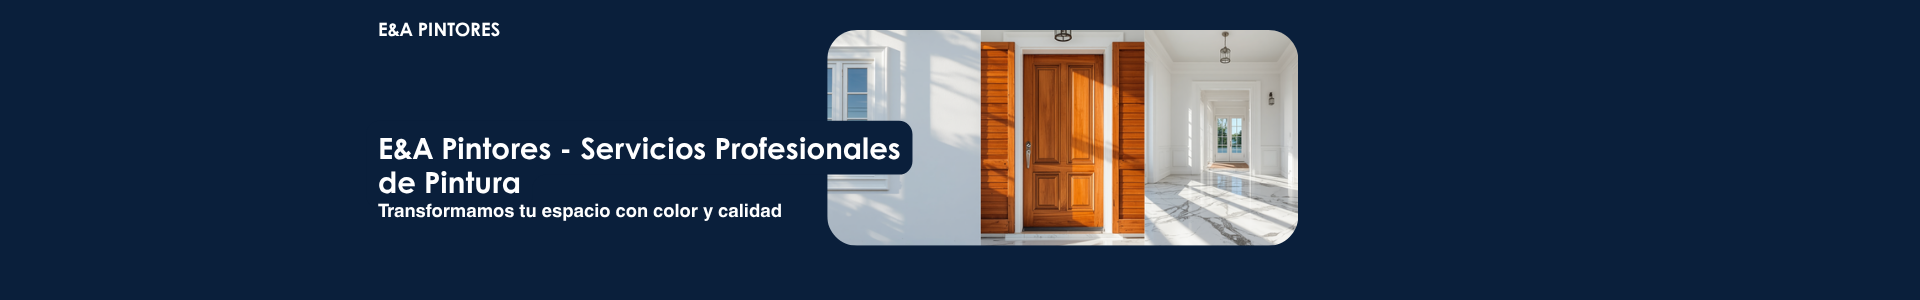
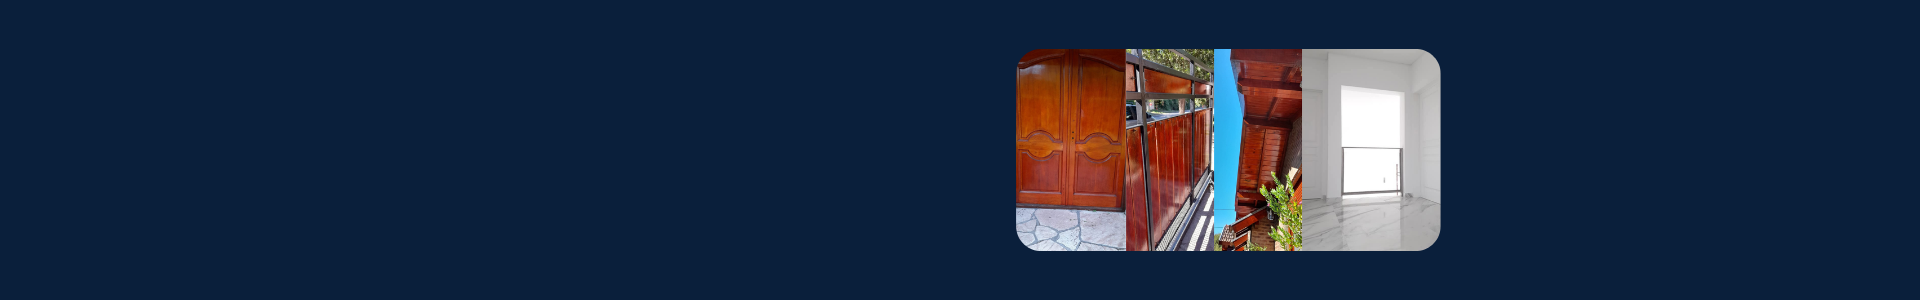
correccion para celulares

Changed region(s): [[0.1875, 0.09, 0.75, 0.84], [0.1875, 0.57, 0.2812, 0.66], [0.1875, 0.06, 0.2812, 0.12]]

diff --git a/style.css b/style.css
@@ -48,12 +48,8 @@ body {
     background-attachment: fixed;
 }
 
-@media (max-wigth: 1000){
-  body{
-    background-attachment: scroll;
-    background-size: 100% 100vh;
-  }
-}
+
+
 /*resaltar parrafos*/
 p {
     font-size: 25px;
@@ -85,13 +81,13 @@ header {
 }
 
 .encabezado-banner {
-    background-image: url('img/banner2.png');
+    background-image: url('img/banner3.png');
     background-size: cover;
     background-position: center;
     display: flex;
     justify-content: space-between;
     align-items: center;
-    padding: 20px 40px;
+    padding: 40px 50px;
     color: #ffffff; 
 }
 
@@ -102,17 +98,17 @@ header {
 }
 
 .logo {
-    height: 120px; 
+    height: 120px !important;
     width: auto;
 }
 
-.texto-cabecera h1 {
+.textos-cabecera h1 {
     color: #ffffff; 
     margin: 0;
-    font-size: 24px;
+    font-size: 24px !important;
 }
 
-.texto-cabecera p {
+.textos-cabecera p {
     margin: 5px 0 0 0;
     font-size: 14px;
     color: #e2e8f0; 
@@ -482,16 +478,16 @@ ul {
   }
 
   .logo-titulo{
-    max-width: 75%;
+    max-width: 100%;
   }
 
   .logo{
-    height: 18px;
+    height: 30px;
   }
 
-  .texto-cabecera p{
-    display: none;
-    display: none !important;
+  .textos-cabecera p{
+    display: block !important;
+    font-size: 18px !important;
   }
 
   /* Hacemos visible el botón de las tres líneas */
@@ -562,14 +558,13 @@ ul {
     height: 100px !important; /* Hacemos el logo un toque más petiso en móviles */
   }
 
-  .texto-cabecera h1 {
+  .textos-cabecera h1 {
     font-size: 18px !important;
   }
+  
 
-  .texto-cabecera p {
-    font-size: 11px !important; /* Letra bien chiquita para que entre en una sola línea */
-    white-space: nowrap;        /* Fuerza a que el eslogan se quede en una sola línea y no se quiebre */
-  }
+
+
   /*
      Cuando la casilla invisible se marca (:checked), 
      buscamos al hermano de abajo (~ .menu-navegacion) y lo traemos a la pantalla */
@@ -584,3 +579,5 @@ ul {
     
   }
 }
+
+

diff --git a/index.html b/index.html
@@ -14,6 +14,7 @@
 
             <div class="textos-cabecera">
                 <h1>E&A Pintores</h1>
+                <h1>Servicios Profesionales de Pintura</h1>
                 <p class="eslogan">Transformamos tu espacio con color y calidad</p>
             </div>
         </div>
@@ -32,7 +33,7 @@
     <section id="Servicios">
         <h1>Nuestros servicios</h1>
         <ul>
-            <lu>Revestimientos de Vanguardia.</lu>
+            <li>Revestimientos de Vanguardia.</li>
             <li>Revestimiento plasticos</li>
             <li>Preparación de Superficies.</li>
             <li>Pinturas Decorativas.</li>